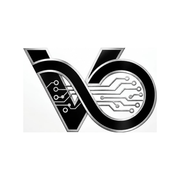
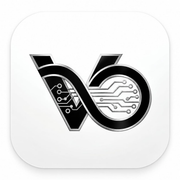
feat: add PWA support, authentication pages, and role-based sidebars

diff --git a/src/components/PwaManager.tsx b/src/components/PwaManager.tsx
@@ -128,9 +128,9 @@ export default function PwaManager() {
           className="fixed bottom-4 left-4 right-4 sm:left-auto sm:right-6 sm:bottom-6 sm:max-w-md z-50 bg-[#0B1F3A] text-white p-4 rounded-2xl shadow-2xl border border-sky-400/20 backdrop-blur-md animate-in fade-in slide-in-from-bottom-4 duration-300"
         >
           <div className="flex items-start gap-3">
-            <div className="w-10 h-10 rounded-xl bg-white p-1 flex-shrink-0 flex items-center justify-center overflow-hidden shadow-sm">
+            <div className="w-10 h-10 rounded-xl bg-white p-0.5 flex-shrink-0 flex items-center justify-center overflow-hidden shadow-sm">
               <img
-                src="/icons/icon-192.png"
+                src="/image.png"
                 alt="Vyorai App Icon"
                 className="w-full h-full object-contain"
               />

diff --git a/src/app/login/page.tsx b/src/app/login/page.tsx
@@ -42,10 +42,10 @@ export default function LoginPage() {
     <div className="min-h-screen iwms-workspace flex flex-col justify-center py-8 sm:py-12 px-4 sm:px-6 lg:px-8" style={{ background: "var(--iwms-bg)" }}>
       <div className="sm:mx-auto sm:w-full sm:max-w-md text-center">
         <div
-          className="inline-flex items-center justify-center h-14 w-14 rounded-2xl bg-white p-2 shadow-sm border border-slate-200/80 mb-4 overflow-hidden"
+          className="inline-flex items-center justify-center h-14 w-14 rounded-2xl bg-white p-1 shadow-sm border border-slate-200/80 mb-4 overflow-hidden"
         >
           <img
-            src="/icons/icon-192.png"
+            src="/image.png"
             alt="Vyorai"
             className="w-full h-full object-contain"
           />

diff --git a/src/components/AdminSidebar.tsx b/src/components/AdminSidebar.tsx
@@ -83,9 +83,9 @@ export function AdminSidebar() {
       >
         <div className="p-4 sm:p-6 border-b border-slate-800 flex items-center justify-between gap-3">
           <div className="flex items-center gap-3 min-w-0">
-            <div className="h-9 w-9 rounded-lg bg-white p-1 flex items-center justify-center shadow-xs shrink-0 overflow-hidden border border-slate-700/50">
+            <div className="h-9 w-9 rounded-lg bg-white p-0.5 flex items-center justify-center shadow-xs shrink-0 overflow-hidden border border-slate-700/50">
               <img
-                src="/icons/icon-192.png"
+                src="/image.png"
                 alt="Vyorai"
                 className="w-full h-full object-contain"
               />

diff --git a/src/app/setup-password/page.tsx b/src/app/setup-password/page.tsx
@@ -155,9 +155,9 @@ export default function SetupPasswordPage() {
   return (
     <div className="min-h-screen bg-slate-50 flex flex-col justify-center py-12 sm:px-6 lg:px-8">
       <div className="sm:mx-auto sm:w-full sm:max-w-md text-center">
-        <div className="inline-flex items-center justify-center h-14 w-14 rounded-2xl bg-white p-2 shadow-sm border border-slate-200 mb-4 overflow-hidden">
+        <div className="inline-flex items-center justify-center h-14 w-14 rounded-2xl bg-white p-1 shadow-sm border border-slate-200 mb-4 overflow-hidden">
           <img
-            src="/icons/icon-192.png"
+            src="/image.png"
             alt="Vyorai"
             className="w-full h-full object-contain"
           />

diff --git a/src/components/InternSidebar.tsx b/src/components/InternSidebar.tsx
@@ -83,10 +83,10 @@ export function InternSidebar() {
         >
           {/* Logo mark */}
           <div
-            className="h-9 w-9 rounded-xl flex items-center justify-center p-1 bg-white shadow-xs flex-shrink-0 border border-slate-200 overflow-hidden"
+            className="h-9 w-9 rounded-xl flex items-center justify-center p-0.5 bg-white shadow-xs flex-shrink-0 border border-slate-200 overflow-hidden"
           >
             <img
-              src="/icons/icon-192.png"
+              src="/image.png"
               alt="Vyorai"
               className="w-full h-full object-contain"
             />
